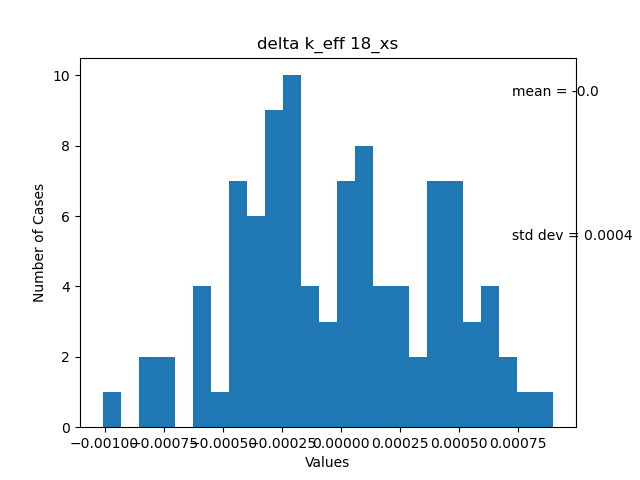
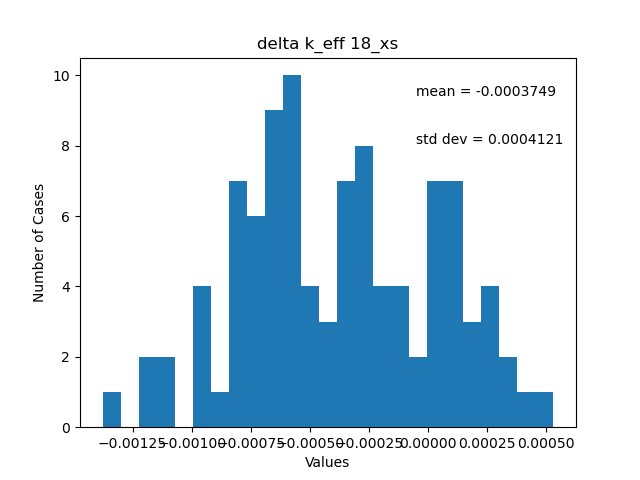
gigurer

diff --git a/runall_new.py b/runall_new.py
@@ -250,8 +250,8 @@ def main():
         plt.title(f'delta k_eff {reaction_ind}_xs')
         plt.xlabel('Values')
         plt.ylabel('Number of Cases')
-        plt.figtext(.8, .8, f"mean = {round(mean,4)}")
-        plt.figtext(.8, .5, f"std dev = {round(std_dev,4)}")
+        plt.figtext(.65, .8, f"mean = {round(mean,7)}")
+        plt.figtext(.65, .7, f"std dev = {round(std_dev,7)}")
 
         plt.savefig(f'result_plots/figure_{reaction_ind}.png')
         plt.clf()
